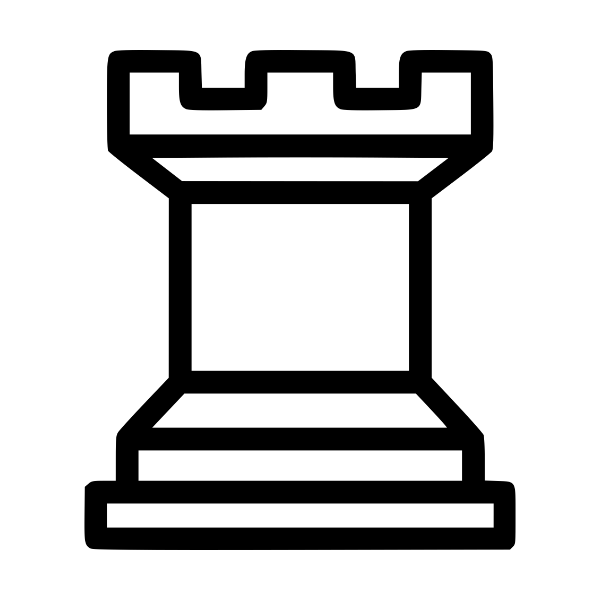
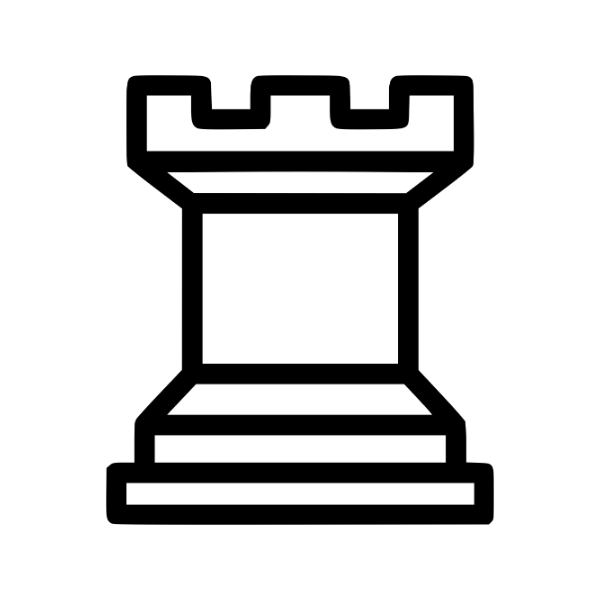
updated pngs and created pieces

Changed region(s): [[0.12, 0.06, 0.87, 0.93]]

diff --git a/src/components/board.js b/src/components/board.js
@@ -1,6 +1,11 @@
 import boardSrc from '../assets/chesboard.png';
 import styled from 'styled-components'; 
 import Pawn from './pawn'; 
+import Bishop from './bishop'; 
+import King from './king'; 
+import Knight from './knight'; 
+import Queen from './queen'; 
+import Rook from './rook'; 
 
 //Testing out Javascript style object
 // const myStyle = { 
@@ -28,24 +33,40 @@ grid-template-rows: repeat(8, 1fr);
 `;  
 
 export default function Board(props){
-    //Testing out styled components  
- 
-
     return (
         <Div>
             {/* White */}
             {
                 [1,2,3,4,5,6,7,8].map((index)=>{
-                    return <Pawn c={index} r={7}></Pawn>
+                    return <Pawn c={index} r={7} color="white"></Pawn>
                 })
             }
+            <Rook c={1} r={8} color="white"></Rook>
+            <Knight c={2} r={8} color="white"></Knight>
+            <Bishop c={3} r={8} color="white"></Bishop>
+            <Queen c={4} r={8} color="white"></Queen>
+            <King c={5} r={8} color="white"></King>
+            <Bishop c={6} r={8} color="white"></Bishop>
+            <Knight c={7} r={8} color="white"></Knight>
+            <Rook c={8} r={8} color="white"></Rook>
+
 
             {/*Black*/}
             {
                 [1,2,3,4,5,6,7,8].map((index)=>{
-                    return <Pawn c={index} r={2}></Pawn>
+                    return <Pawn c={index} r={2} color="black"></Pawn>
                 })
             }
+            <Rook c={1} r={1} color="black"></Rook>
+            <Knight c={2} r={1} color="black"></Knight>
+            <Bishop c={3} r={1} color="black"></Bishop>
+            <Queen c={4} r={1} color="black"></Queen>
+            <King c={5} r={1} color="black"></King>
+            <Bishop c={6} r={1} color="black"></Bishop>
+            <Knight c={7} r={1} color="black"></Knight>
+            <Rook c={8} r={1} color="black"></Rook>
+
+
         </Div>    
     )
 }

diff --git a/src/components/bishop.js b/src/components/bishop.js
@@ -1,14 +1,12 @@
-import styled from "styled-components";
-import wPawnSrc from "../assets/wPawn.png"; 
-import bPawnSrc from "../assets/bPawn.png"; 
+import wBishop from "../assets/wBishop.png"; 
+import bBishop from "../assets/bBishop.png"; 
 
-
-
-export default function Pawn(props){ 
-    let src = wPawnSrc;  
+export default function Bishop(props){ 
+    let src = wBishop;  
     if (props.color == 'black'){ 
-        src = bPawnSrc; 
+        src = bBishop; 
     }
+
     //This sets the position of the piece on the grid 
     const gridPlace = { 
         gridColumn: props.c, 

diff --git a/src/components/knight.js b/src/components/knight.js
@@ -1,14 +1,12 @@
-import styled from "styled-components";
-import wPawnSrc from "../assets/wPawn.png"; 
-import bPawnSrc from "../assets/bPawn.png"; 
+import wKnight from "../assets/wKnight.png"; 
+import bKnight from "../assets/bKnight.png"; 
 
-
-
-export default function Pawn(props){ 
-    let src = wPawnSrc;  
+export default function Knight(props){ 
+    let src = wKnight;  
     if (props.color == 'black'){ 
-        src = bPawnSrc; 
+        src = bKnight; 
     }
+
     //This sets the position of the piece on the grid 
     const gridPlace = { 
         gridColumn: props.c, 

diff --git a/src/components/king.js b/src/components/king.js
@@ -1,14 +1,12 @@
-import styled from "styled-components";
-import wPawnSrc from "../assets/wPawn.png"; 
-import bPawnSrc from "../assets/bPawn.png"; 
+import wKing from "../assets/wKing.png"; 
+import bKing from "../assets/bKing.png"; 
 
-
-
-export default function Pawn(props){ 
-    let src = wPawnSrc;  
+export default function King(props){ 
+    let src = wKing;  
     if (props.color == 'black'){ 
-        src = bPawnSrc; 
+        src = bKing; 
     }
+
     //This sets the position of the piece on the grid 
     const gridPlace = { 
         gridColumn: props.c, 

diff --git a/src/components/rook.js b/src/components/rook.js
@@ -1,14 +1,12 @@
-import styled from "styled-components";
-import wPawnSrc from "../assets/wPawn.png"; 
-import bPawnSrc from "../assets/bPawn.png"; 
+import wRook from "../assets/wRook.png"; 
+import bRook from "../assets/bRook.png"; 
 
-
-
-export default function Pawn(props){ 
-    let src = wPawnSrc;  
+export default function Rook(props){ 
+    let src = wRook;  
     if (props.color == 'black'){ 
-        src = bPawnSrc; 
+        src = bRook; 
     }
+
     //This sets the position of the piece on the grid 
     const gridPlace = { 
         gridColumn: props.c, 

diff --git a/src/components/queen.js b/src/components/queen.js
@@ -1,13 +1,10 @@
-import styled from "styled-components";
-import wPawnSrc from "../assets/wPawn.png"; 
-import bPawnSrc from "../assets/bPawn.png"; 
+import wQueen from "../assets/wQueen.png"; 
+import bQueen from "../assets/bQueen.png"; 
 
-
-
-export default function Pawn(props){ 
-    let src = wPawnSrc;  
+export default function Queen(props){ 
+    let src = wQueen;  
     if (props.color == 'black'){ 
-        src = bPawnSrc; 
+        src = bQueen; 
     }
     //This sets the position of the piece on the grid 
     const gridPlace = { 
